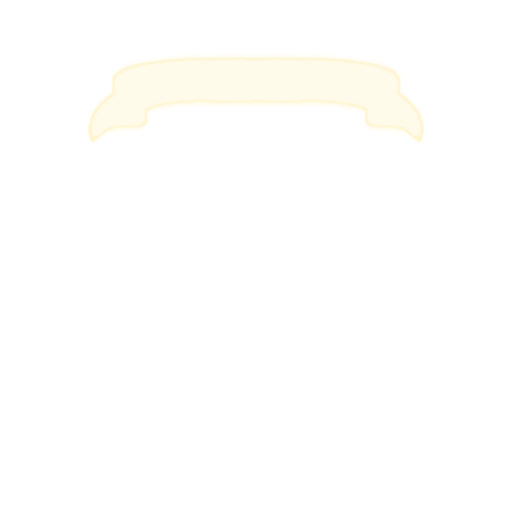
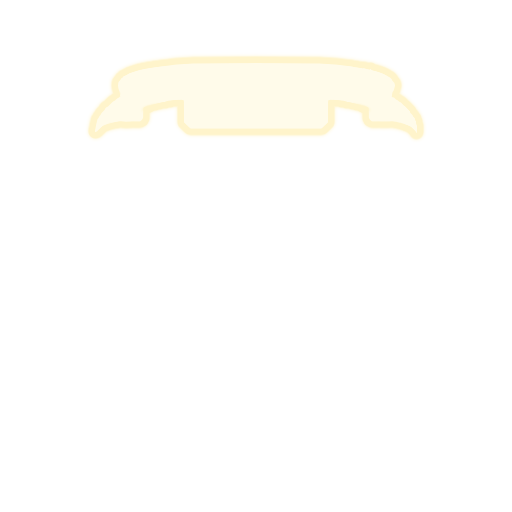
v1.0.3

diff --git a/the_runesmith/src/main/java/runesmith/patches/RunicCardGlow.java b/the_runesmith/src/main/java/runesmith/patches/RunicCardGlow.java
@@ -4,19 +4,22 @@ import basemod.ReflectionHacks;
 import com.badlogic.gdx.Gdx;
 import com.badlogic.gdx.graphics.Color;
 import com.badlogic.gdx.graphics.Texture;
+import com.badlogic.gdx.graphics.g2d.SpriteBatch;
 import com.badlogic.gdx.graphics.g2d.TextureAtlas;
-import com.evacipated.cardcrawl.modthespire.lib.SpirePatch;
-import com.evacipated.cardcrawl.modthespire.lib.SpirePostfixPatch;
+import com.evacipated.cardcrawl.modthespire.lib.*;
 import com.megacrit.cardcrawl.cards.AbstractCard;
 import com.megacrit.cardcrawl.dungeons.AbstractDungeon;
 import com.megacrit.cardcrawl.helpers.ImageMaster;
 import com.megacrit.cardcrawl.rooms.AbstractRoom;
 import com.megacrit.cardcrawl.vfx.AbstractGameEffect;
 import com.megacrit.cardcrawl.vfx.cardManip.CardGlowBorder;
+import javassist.CtBehavior;
 import org.apache.logging.log4j.LogManager;
 import org.apache.logging.log4j.Logger;
 import runesmith.RunesmithMod;
 import runesmith.cards.Runesmith.AbstractRunicCard;
+
+import java.util.ArrayList;
 
 public class RunicCardGlow {
     public static final Logger logger = LogManager.getLogger(RunesmithMod.class.getName());
@@ -65,6 +68,52 @@ public class RunicCardGlow {
                         }
                     }
                 }
+            }
+        }
+    }
+
+    @SpirePatch(clz = AbstractCard.class, method = "renderMainBorder", paramtypez = {
+            SpriteBatch.class
+    })
+    public static class MainCardGlowPatch {
+        @SpireInsertPatch(
+                locator= MainCardGlowPatch.Locator.class,
+                localvars={"img"}
+        )
+        public static void runicMainBorder(AbstractCard __instance, SpriteBatch sb, @ByRef TextureAtlas.AtlasRegion[] img){
+            switch (__instance.type) {
+                case ATTACK:
+                    img[0] = CARD_RUNIC_ATTACK_BG_SILHOUETTE;
+                    break;
+                case SKILL:
+                    img[0] = CARD_RUNIC_SKILL_BG_SILHOUETTE;
+                    break;
+                case POWER:
+                    img[0] = CARD_RUNIC_POWER_BG_SILHOUETTE;
+                    break;
+            }
+            if (__instance instanceof AbstractRunicCard) {
+                if (((AbstractRunicCard) __instance).isCraftable) {
+                    switch (__instance.type) {
+                        case ATTACK:
+                            img[0] = CARD_CRAFT_RUNIC_ATTACK_BG_SILHOUETTE;
+                            break;
+                        case SKILL:
+                            img[0] = CARD_CRAFT_RUNIC_SKILL_BG_SILHOUETTE;
+                            break;
+                        case POWER:
+                            img[0] = CARD_CRAFT_RUNIC_POWER_BG_SILHOUETTE;
+                            break;
+                    }
+                }
+            }
+        }
+
+        private static class Locator extends SpireInsertLocator {
+            @Override
+            public int[] Locate(CtBehavior ctMethodToPatch) throws Exception {
+                Matcher finalMatcher = new Matcher.MethodCallMatcher(SpriteBatch.class, "draw");
+                return LineFinder.findInOrder(ctMethodToPatch, new ArrayList<>(), finalMatcher);
             }
         }
     }

diff --git a/the_runesmith/src/main/java/runesmith/patches/RenderEnhancedBannerPatch.java b/the_runesmith/src/main/java/runesmith/patches/RenderEnhancedBannerPatch.java
@@ -3,22 +3,28 @@ package runesmith.patches;
 import basemod.ReflectionHacks;
 import com.badlogic.gdx.graphics.Color;
 import com.badlogic.gdx.graphics.Texture;
+import com.badlogic.gdx.graphics.g2d.BitmapFont;
+import com.badlogic.gdx.graphics.g2d.GlyphLayout;
 import com.badlogic.gdx.graphics.g2d.SpriteBatch;
-import com.badlogic.gdx.math.MathUtils;
 import com.evacipated.cardcrawl.modthespire.lib.*;
 import com.evacipated.cardcrawl.modthespire.patcher.PatchingException;
 import com.megacrit.cardcrawl.cards.AbstractCard;
+import com.megacrit.cardcrawl.core.CardCrawlGame;
 import com.megacrit.cardcrawl.core.Settings;
+import com.megacrit.cardcrawl.helpers.FontHelper;
 import com.megacrit.cardcrawl.helpers.ImageMaster;
+import com.megacrit.cardcrawl.localization.UIStrings;
 import javassist.CannotCompileException;
 import javassist.CtBehavior;
-import runesmith.cards.Runesmith.AbstractRunicCard;
 
 import java.util.ArrayList;
 
 public class RenderEnhancedBannerPatch {
 
     private static Texture ENHANCED_BANNER = ImageMaster.loadImage("runesmith/images/cardui/512/enhance_banner.png");
+    private static Color textColor = new Color(1245392127);
+    private static final UIStrings uiStrings = CardCrawlGame.languagePack.getUIString("Runesmith:CardEnhanced");
+    public static final String[] ENHANCE_TEXT = uiStrings.TEXT;
 
     @SpirePatch(
             clz = AbstractCard.class,
@@ -47,6 +53,14 @@ public class RenderEnhancedBannerPatch {
     static void renderBanner(SpriteBatch sb, AbstractCard c){
         Color color = (Color) ReflectionHacks.getPrivate(c, AbstractCard.class, "renderColor");
         renderHelper(sb, c, color, ENHANCED_BANNER, c.current_x, c.current_y);
+
+        BitmapFont font = FontHelper.cardDescFont_L;
+        font.getData().setScale(1.0F);
+        GlyphLayout gl = new GlyphLayout(font, EnhanceCountField.enhanceString.get(c));
+        float scale = Math.min((170.0F)/gl.width, (16.0F)/gl.height)*c.drawScale;
+        font.getData().setScale(scale*Settings.scale);
+        FontHelper.renderRotatedText(sb, font, EnhanceCountField.enhanceString.get(c), c.current_x, c.current_y, 0.0F, 139.0F * Settings.scale * c.drawScale, c.angle, true, textColor);
+        font.getData().setScale(1.0F);
     }
 
     private static void renderHelper(SpriteBatch sb, AbstractCard c, Color color, Texture img, float drawX, float drawY) {

diff --git a/the_runesmith/src/main/java/runesmith/patches/StasisExhaustPrevention.java b/the_runesmith/src/main/java/runesmith/patches/StasisExhaustPrevention.java
@@ -28,30 +28,30 @@ public class StasisExhaustPrevention {
 //		}
 //	}
 
-    @SpirePatch(clz = CardGroup.class, method = "moveToExhaustPile")
-    public static class preventExhaust {
-        public static SpireReturn Prefix(CardGroup self, AbstractCard c) {
-            if (CardStasisStatus.isStasis.get(c)) {
-                //logger.info("Attempting exhaust prevention");
-                CardStasisStatus.isStasis.set(c, false);
-                if (AbstractDungeon.player.hoveredCard == c) {
-                    AbstractDungeon.player.releaseCard();
-                }
-                AbstractDungeon.actionManager.removeFromQueue(c);
-                c.unhover();
-                c.untip();
-                c.stopGlowing();
-                self.group.remove(c);
-                //update card description
-                AdditionalCardDescriptions.modifyDescription(c);
-                c.initializeDescription();
-                AbstractDungeon.effectList.add(new ShowStasisCardAndAddToDiscardEffect(c));
-                return SpireReturn.Return(null);
-            }
-            return SpireReturn.Continue();
-        }
-
-    }
+//    @SpirePatch(clz = CardGroup.class, method = "moveToExhaustPile")
+//    public static class preventExhaust {
+//        public static SpireReturn Prefix(CardGroup self, AbstractCard c) {
+//            if (CardStasisStatus.isStasis.get(c)) {
+//                //logger.info("Attempting exhaust prevention");
+//                CardStasisStatus.isStasis.set(c, false);
+//                if (AbstractDungeon.player.hoveredCard == c) {
+//                    AbstractDungeon.player.releaseCard();
+//                }
+//                AbstractDungeon.actionManager.removeFromQueue(c);
+//                c.unhover();
+//                c.untip();
+//                c.stopGlowing();
+//                self.group.remove(c);
+//                //update card description
+//                AdditionalCardDescriptions.modifyDescription(c);
+//                c.initializeDescription();
+//                AbstractDungeon.effectList.add(new ShowStasisCardAndAddToDiscardEffect(c));
+//                return SpireReturn.Return(null);
+//            }
+//            return SpireReturn.Continue();
+//        }
+//
+//    }
 
 	/*
 	@SpirePatch(clz = CardGroup.class, method = "moveToExhaustPile")

diff --git a/the_runesmith/src/main/java/runesmith/cards/Runesmith/AbstractRunicCard.java b/the_runesmith/src/main/java/runesmith/cards/Runesmith/AbstractRunicCard.java
@@ -121,10 +121,10 @@ public abstract class AbstractRunicCard extends CustomCard {
         this.freeElementOnce = false;
     }
 
-//    @Override
-//    public void triggerOnGlowCheck(){
-//        glowColor = isCraftable ? AbstractCard.GOLD_BORDER_GLOW_COLOR : AbstractCard.BLUE_BORDER_GLOW_COLOR;
-//    }
+    @Override
+    public void triggerOnGlowCheck(){
+        glowColor = isCraftable ? AbstractCard.GOLD_BORDER_GLOW_COLOR : AbstractCard.BLUE_BORDER_GLOW_COLOR;
+    }
 
     public int[] getElementCost(){ return elementCost;}
 
@@ -216,13 +216,13 @@ public abstract class AbstractRunicCard extends CustomCard {
             float drawY = this.current_y - 256.0F;
             if (this.isCraftable && this.renderCraftable) {
                 this.renderHelper(sb, this.renderColor, craftableTab, drawX, drawY);
-                BitmapFont font = FontHelper.menuBannerFont;
+                BitmapFont font = FontHelper.cardDescFont_L;
                 font.getData().setScale(1.0F);
                 GlyphLayout gl = new GlyphLayout(font, craftableString[0]);
-                float scale = Math.min((82.0F*this.drawScale)/gl.width, (15.0F*this.drawScale)/gl.height);
-                FontHelper.menuBannerFont.getData().setScale(scale*Settings.scale);
-                FontHelper.renderRotatedText(sb, FontHelper.menuBannerFont, craftableString[0], this.current_x, this.current_y, 0.0F, 429.0F * Settings.scale * this.drawScale / 2.0F, this.angle, true, this.textColor);
-                FontHelper.menuBannerFont.getData().setScale(1.0F);
+                float scale = Math.min((82.0F)/gl.width, (15.0F)/gl.height)*this.drawScale;
+                font.getData().setScale(scale*Settings.scale);
+                FontHelper.renderRotatedText(sb, font, craftableString[0], this.current_x, this.current_y, 0.0F, 214.5F * Settings.scale * this.drawScale, this.angle, true, this.textColor);
+                font.getData().setScale(1.0F);
             }
         }
     }

diff --git a/the_runesmith/src/main/java/runesmith/utils/AdditionalCardDescriptions.java b/the_runesmith/src/main/java/runesmith/utils/AdditionalCardDescriptions.java
@@ -59,6 +59,7 @@ public abstract class AdditionalCardDescriptions {
 
         String raw = c.rawDescription;
 
+        EnhanceCountField.enhanceString.set(c, "");
         raw = raw.replace(" " + ENHANCE_TEXT[0] + ".", "");
         raw = raw.replace(" " + ENHANCE_TEXT[0] + " +" + (EnhanceCountField.enhanceCount.get(c) - 1) + ".", "");
         raw = raw.replace(" " + ENHANCE_TEXT[0] + " +" + EnhanceCountField.enhanceCount.get(c) + ".", "");
@@ -67,8 +68,10 @@ public abstract class AdditionalCardDescriptions {
 
         if (!EnhanceCountField.enhanceReset.get(c)) {
             if (EnhanceCountField.enhanceCount.get(c) == 1) {
+                EnhanceCountField.enhanceString.set(c, ENHANCE_TEXT[1]);
                 raw = raw + " " + ENHANCE_TEXT[0] + ".";
             } else if (EnhanceCountField.enhanceCount.get(c) > 1) {
+                EnhanceCountField.enhanceString.set(c, ENHANCE_TEXT[1] + "+" + EnhanceCountField.enhanceCount.get(c));
                 raw = raw + " " + ENHANCE_TEXT[0] + " +" + EnhanceCountField.enhanceCount.get(c) + ".";
             }
         }

diff --git a/the_runesmith/src/main/java/runesmith/RunesmithMod.java b/the_runesmith/src/main/java/runesmith/RunesmithMod.java
@@ -287,7 +287,7 @@ public class RunesmithMod implements PostExhaustSubscriber,
     @Override
     public void receiveCardUsed(AbstractCard c) {
         if (CardStasisStatus.isStasis.get(c) || EnhanceCountField.enhanceCount.get(c) > 0) {
-            if (CardStasisStatus.isStasis.get(c) && EnhanceCountField.enhanceCount.get(c) > 0 && !c.exhaust) {
+            if (CardStasisStatus.isStasis.get(c) && EnhanceCountField.enhanceCount.get(c) > 0) {
                 CardStasisStatus.isStasis.set(c, false);
             }else if (EnhanceCountField.enhanceCount.get(c) > 0){
                 EnhanceCountField.enhanceReset.set(c, true);

diff --git a/the_runesmith/src/main/java/runesmith/actions/cards/ShiftingStrikeAction.java b/the_runesmith/src/main/java/runesmith/actions/cards/ShiftingStrikeAction.java
@@ -55,7 +55,7 @@ public class ShiftingStrikeAction extends AbstractGameAction {
                 AbstractCard c = AbstractDungeon.handCardSelectScreen.selectedCards.group.get(0);
 
                 int enhance_amt = EnhanceCountField.enhanceCount.get(c);
-//                EnhanceCountField.enhanceCount.set(c, 0);
+                EnhanceCountField.enhanceCount.set(c, 0);
                 EnhanceCountField.lastEnhance.set(c, 0);
                 EnhanceCountField.enhanceReset.set(c, true);
                 c.initializeDescription();

diff --git a/the_runesmith/src/main/java/runesmith/patches/EnhanceCountField.java b/the_runesmith/src/main/java/runesmith/patches/EnhanceCountField.java
@@ -8,5 +8,6 @@ import com.megacrit.cardcrawl.cards.AbstractCard;
 public class EnhanceCountField {
     public static SpireField<Integer> enhanceCount = new SpireField<Integer>(() -> 0);
     public static SpireField<Boolean> enhanceReset = new SpireField<Boolean>(() -> false);
+    public static SpireField<String> enhanceString = new SpireField<>(() -> "");
     public static SpireField<Integer> lastEnhance = new SpireField<>(() -> 0);
 }

diff --git a/the_runesmith/src/main/java/runesmith/cards/Runesmith/CraftObretio.java b/the_runesmith/src/main/java/runesmith/cards/Runesmith/CraftObretio.java
@@ -43,6 +43,7 @@ public class CraftObretio extends AbstractRunicCard {
         this.elementCost = new int[]{0, TERRA_AMT, AQUA_AMT};
         this.potency = this.basePotency = POTENCY;
         this.tags.add(RS_CRAFT);
+        this.exhaust = true;
     }
 
     @Override
